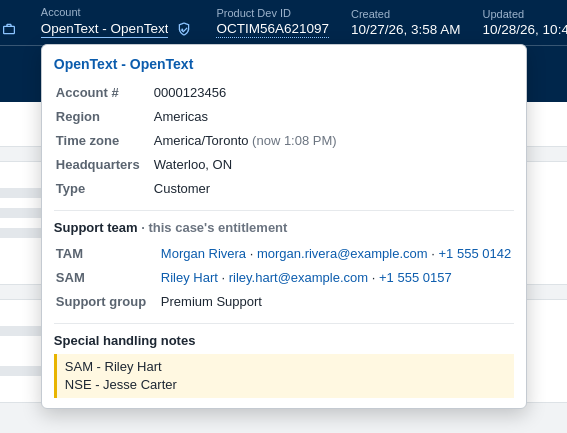
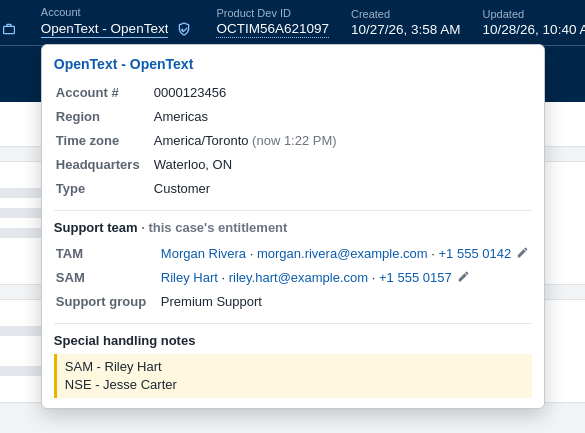
1.6.0: phone numbers call with Jabber; pencil opens the number in Jabber to edit first
Phone links are ciscotel: (the phone setting is gone); a pencil next to each
uses clicktocallwithedit://, as another SMAX extension does, to open Jabber's
call window with the number editable.

Claude-Session: https://claude.ai/code/session_01NkpnDbqKsuBq5PSnVFxaiM

diff --git a/extension/banner.js b/extension/banner.js
@@ -20,6 +20,7 @@
     cases: '<svg viewBox="0 0 24 24" width="16" height="16"><path fill="currentColor" d="M10 4h4a2 2 0 0 1 2 2v1h3a2 2 0 0 1 2 2v9a2 2 0 0 1-2 2H5a2 2 0 0 1-2-2V9a2 2 0 0 1 2-2h3V6a2 2 0 0 1 2-2zm0 3h4V6h-4v1zM5 9v9h14V9H5z"/></svg>',
     ents: '<svg viewBox="0 0 24 24" width="16" height="16"><path fill="currentColor" d="M12 2l8 3v6c0 5-3.4 9.4-8 11-4.6-1.6-8-6-8-11V5l8-3zm0 2.1L6 6.4V11c0 3.9 2.5 7.4 6 8.9 3.5-1.5 6-5 6-8.9V6.4l-6-2.3zm-1 10.5l5-5 1.4 1.4-6.4 6.4-3.4-3.4L9 10.6l2 2z"/></svg>',
     gear: '<svg viewBox="0 0 24 24" width="15" height="15"><path fill="currentColor" d="M19.4 13a7.6 7.6 0 0 0 0-2l2.1-1.6-2-3.5-2.5 1a7.4 7.4 0 0 0-1.7-1L15 3h-4l-.4 2.7a7.4 7.4 0 0 0-1.7 1l-2.5-1-2 3.5L6.6 11a7.6 7.6 0 0 0 0 2l-2.1 1.6 2 3.5 2.5-1a7.4 7.4 0 0 0 1.7 1L11 21h4l.4-2.7a7.4 7.4 0 0 0 1.7-1l2.5 1 2-3.5-2.2-1.8zM13 15.5a3.5 3.5 0 1 1 0-7 3.5 3.5 0 0 1 0 7z" transform="translate(-1 0)"/></svg>',
+    pencil: '<svg viewBox="0 0 24 24" width="13" height="13"><path fill="currentColor" d="M3 17.25V21h3.75L17.8 9.94l-3.75-3.75L3 17.25zm17.7-10.2a1 1 0 0 0 0-1.42l-2.33-2.33a1 1 0 0 0-1.42 0l-1.83 1.83 3.75 3.75 1.83-1.83z"/></svg>',
     copy: '<svg viewBox="0 0 24 24" width="14" height="14"><path fill="currentColor" d="M16 1H4a2 2 0 0 0-2 2v14h2V3h12V1zm3 4H8a2 2 0 0 0-2 2v14a2 2 0 0 0 2 2h11a2 2 0 0 0 2-2V7a2 2 0 0 0-2-2zm0 16H8V7h11v14z"/></svg>',
     refresh: '<svg viewBox="0 0 24 24" width="15" height="15"><path fill="currentColor" d="M17.6 6.4A8 8 0 1 0 20 12h-2a6 6 0 1 1-1.8-4.2L13 11h7V4l-2.4 2.4z"/></svg>',
   };
@@ -245,9 +246,15 @@
   function line(label, ...value) {
     return value.some(v => v) ? el('tr', null, el('th', null, label), el('td', null, ...value)) : null;
   }
-  // Phone numbers open the default phone app (tel:) or Jabber (ciscotel:); skip-domain-check stops SMAX's external link warning
-  const tel = n => n ? el('a', { href: (settings.phone === 'jabber' ? 'ciscotel:' : 'tel:') + String(n).replace(/[^0-9+]/g, ''), 'skip-domain-check': '',
-    title: settings.phone === 'jabber' ? 'Call with Jabber' : 'Call' }, n) : null;
+  // Phone numbers call with Jabber (ciscotel:); ✎ opens the number in Jabber's call window to edit before dialing
+  // (clicktocallwithedit://). skip-domain-check stops SMAX's external link warning.
+  const tel = n => {
+    if (!n) return null;
+    const digits = String(n).replace(/[^0-9+]/g, '');
+    return el('span', { class: 'otsmb-tel' },
+      el('a', { href: 'ciscotel:' + digits, 'skip-domain-check': '', title: 'Call with Jabber' }, n),
+      el('a', { class: 'otsmb-teledit', href: 'clicktocallwithedit://' + digits, 'skip-domain-check': '', title: 'Edit the number in Jabber before calling', 'aria-label': `Edit ${n} in Jabber before calling`, html: ICON.pencil }));
+  };
   const zone = tz => tz ? [tz, el('span', { class: 'otsmb-dim' }, ` (now ${localTime(tz)})`)] : null;
 
   async function personCard() {

diff --git a/site/index.html b/site/index.html
@@ -66,7 +66,7 @@
   <h3>Contact and account cards</h3>
   <p>Hover over the contact or account name for their details: email and phone numbers, time zone with the local time there,
     location, account number and region. Click to keep the card open. The name at the top of a card opens the contact's or
-    account's page in OTSM, and phone numbers can call through your phone app or Cisco Jabber.</p>
+    account's page in OTSM. Click a phone number to call it with Cisco Jabber, or the pencil next to it to edit the number in Jabber first.</p>
   <figure><a href="img/contact-card.png"><img src="img/contact-card.png" alt="Contact card with email, office and mobile numbers, time zone and location"></a></figure>
   <p>The account card also shows the <b>support team</b>: the TAM, SAM, premium manager and support group from the case's
     entitlement (or the account's other entitlements), and the account's <b>special handling notes</b>.</p>
@@ -85,8 +85,7 @@
 
   <h3>Settings</h3>
   <p>Click ⚙ on the banner (or right-click the extension's icon and choose Options) to pick which fields show and in what order,
-    the colours, the title length, how names are shown (First Last or Last, First), whether phone numbers open your phone app or Jabber,
-    which FTS account the button uses, and whether it opens WinSCP or your default FTP app.
+    the colours, the title length, how names are shown (First Last or Last, First), which FTS account the button uses, and whether it opens WinSCP or your default FTP app.
     Changes show on open cases straight away.</p>
   <figure><a href="img/settings.png"><img src="img/settings.png" alt="The settings page: a live preview, the list of fields with tick boxes and arrows, colour choices and other options"></a></figure>
 

diff --git a/extension/banner.css b/extension/banner.css
@@ -64,6 +64,9 @@ html.otsmb-on .pl-entity-page-minimized-header { top: calc(56px + var(--otsmb-h)
 .otsmb-card-title { font-weight: 700; font-size: 14px; margin-bottom: 6px; }
 .otsmb-team { margin-top: 8px; padding-top: 8px; border-top: 1px solid #e6e9ec; }
 .otsmb-card-sub { font-weight: 700; margin-bottom: 4px; }
+.otsmb-tel { white-space: nowrap; }
+.otsmb-float a.otsmb-teledit { margin-left: 5px; color: #6b7480; display: inline-flex; vertical-align: -1px; }
+.otsmb-float a.otsmb-teledit:hover { color: #0b5cad; text-decoration: none; }
 .otsmb-note { white-space: pre-line; background: #fff8e1; border-left: 3px solid #e8b400; padding: 4px 8px; margin-top: 4px; max-width: 520px; user-select: text; }
 .otsmb-card th { text-align: left; color: #5a6470; font-weight: 600; padding: 2px 12px 2px 0; vertical-align: top; white-space: nowrap; }
 .otsmb-card td { padding: 2px 0; user-select: text; }

diff --git a/extension/options.js b/extension/options.js
@@ -102,7 +102,6 @@
     radios('cardsOnHover', [[true, 'Open on hover (click keeps it open)'], [false, 'Open on click only']], () => s.cardsOnHover, v => { s.cardsOnHover = v; });
     radios('casesTab', [['contact', 'Contact'], ['account', 'Account']], () => s.casesTab, v => { s.casesTab = v; });
     radios('names', [['first', 'First Last'], ['last', 'Last, First']], () => s.names, v => { s.names = v; });
-    radios('phone', [['tel', 'Default phone app'], ['jabber', 'Cisco Jabber']], () => s.phone, v => { s.phone = v; });
     radios('ftsApp', [['winscp', 'WinSCP'], ['ftp', 'Default FTP app (ftp:// link)']], () => s.ftsApp, v => { s.ftsApp = v; });
     radios('fts', [['host', 'Host account'], ['customer', 'Customer account'], ['both', 'Both (Host and Cust buttons)']], () => s.fts, v => { s.fts = v; });
   }

diff --git a/extension/settings.js b/extension/settings.js
@@ -38,7 +38,6 @@ var OTSMB = (() => {
     fts: 'host',               // 'host', 'customer' or 'both'
     ftsApp: 'winscp',          // the FTS button opens 'winscp' (winscp-ftp://) or 'ftp' (ftp://, the default FTP app)
     names: 'first',            // people's names as 'first' (First Last) or 'last' (Last, First, as OTSM stores them)
-    phone: 'tel',              // phone numbers open 'tel' (the default phone app) or 'jabber' (Cisco Jabber, ciscotel:)
   };
 
   // Saved settings over the defaults. Fields: saved order first, then any field added since (in its default place).

diff --git a/extension/options.html b/extension/options.html
@@ -79,8 +79,6 @@
       <div class="choices" id="casesTab"></div>
       <div>Names</div>
       <div class="choices" id="names"></div>
-      <div>Phone numbers open in</div>
-      <div class="choices" id="phone"></div>
       <div>FTS button</div>
       <div class="choices" id="fts"></div>
       <div>FTS opens in</div>

diff --git a/README.md b/README.md
@@ -12,7 +12,8 @@ with a small label over each value.
   account's page in OTSM. The account card also lists the **Support team** from the entitlement fields (TAM, SAM, Accountable
   Premium Manager, Enterprise Support Manager, assignment group): the case's entitlement, or the account's in-use ones when
   that has none. Then the case's active Special Handling Notes (mostly on the account; often where the SAM and named
-  engineer are written down). Phone numbers open the default phone app or Jabber (setting).
+  engineer are written down). Phone numbers call with Jabber (`ciscotel:`); the pencil next to each opens it in Jabber to edit
+  before calling (`clicktocallwithedit://`).
 - Case icon next to the contact: other cases, on a "Contact: <name>" or "Account: <name>" tab, newest first, with links.
   The current case is highlighted and closed cases are greyed. The contact tab includes cases the contact follows
   (SMAX FollowedByUsers; their portal lists them too), marked Following with that case's contact and account.
@@ -35,7 +36,6 @@ open banners redraw straight away.
 - Contact cards: open on hover (default) or on click only.
 - Other cases popup opens on the Contact (default) or Account tab.
 - Names: First Last (default) or Last, First (as OTSM stores them).
-- Phone numbers open in the default phone app (`tel:`, default) or Cisco Jabber (`ciscotel:`).
 - FTS button: host account (default), customer account, or both (small Host and Cust buttons under an FTS label).
 - FTS opens in: WinSCP (default) or the default FTP app (`ftp://` link).
 
